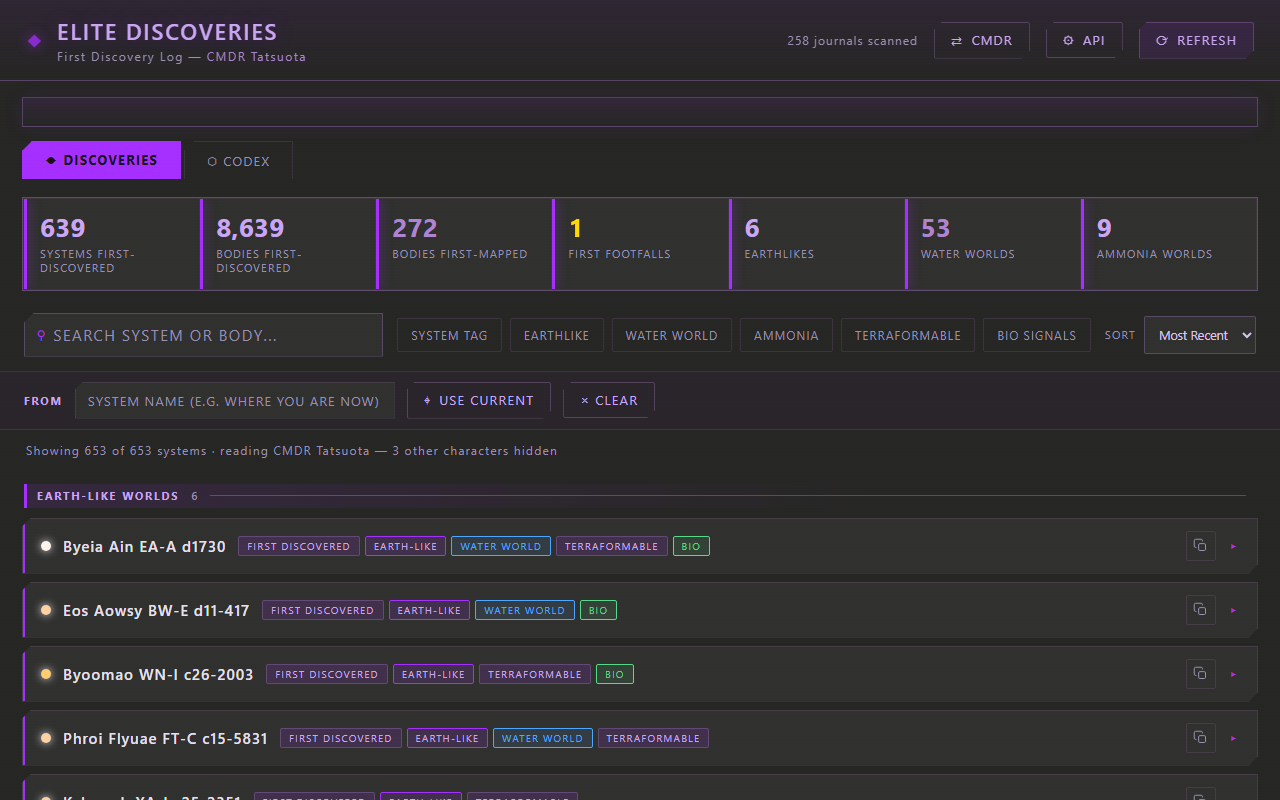
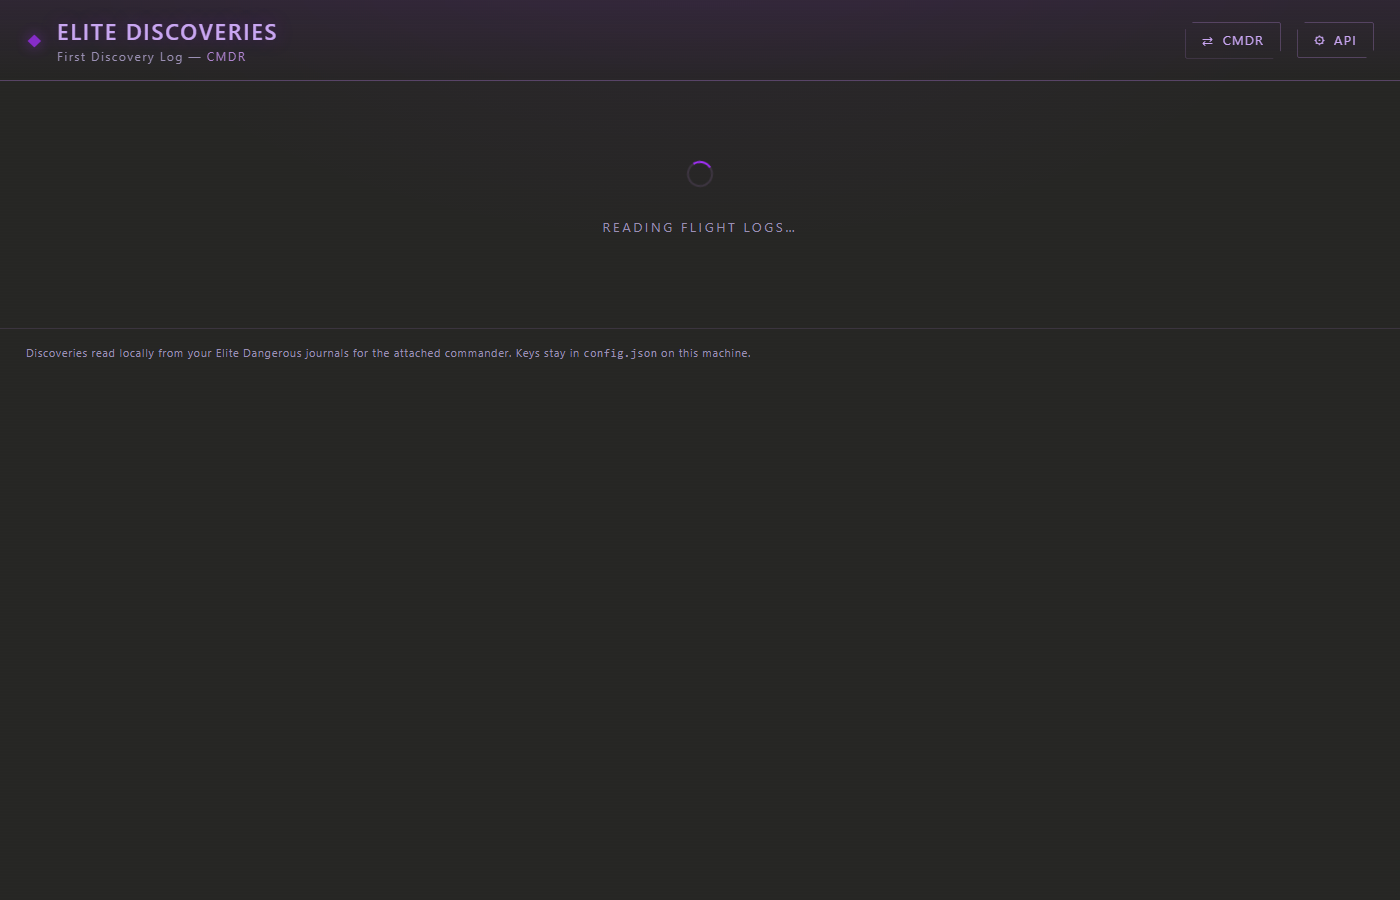
Update portfolio

diff --git a/index.html b/index.html
@@ -66,40 +66,42 @@
   <!-- ============ Elite Discoveries ============ -->
   <article class="project">
     <div class="shot">
-      <div class="shot-chrome"><span></span><span></span><span></span><em>Elite Discoveries — localhost:8765</em></div>
-      <img src="images/elite-discoveries.png" alt="Elite Discoveries app showing a stats strip and categorized list of first-discovered star systems" loading="lazy">
+      <div class="shot-chrome"><span></span><span></span><span></span><em>Elite Discoveries</em></div>
+      <img src="images/elite-discoveries.png" alt="Elite Discoveries app showing categorized lists of star systems and codex entries with colour-coded headers" loading="lazy">
       <div class="shot-links">
         <span class="shot-links-label">Get the app:</span>
-        <a href="https://tatsuota.github.io/portfolio/downloads/Elite-Discoveries.exe">⬇ Windows app <small>.exe · 8 MB</small></a>
+        <a href="https://tatsuota.github.io/portfolio/downloads/Elite-Discoveries.exe">⬇ Windows app <small>.exe · 14 MB</small></a>
       </div>
     </div>
     <div class="info">
       <div class="meta">
-        <span class="type">Desktop / Local Web App</span>
+        <span class="type">Windows Native App</span>
         <span class="ai-badge">Built with Claude Code</span>
       </div>
       <h3>Elite Discoveries</h3>
-      <p class="lede">A first-discovery tracker for <em>Elite Dangerous</em> that turns the game's raw journal logs into a personal exploration record.</p>
+      <p class="lede">A first-discovery tracker for <em>Elite Dangerous</em> that reads a player's journals per-commander and organizes every find into searchable categories.</p>
       <p>
         Elite Dangerous writes everything a player does to local journal files, but the
         game itself has no screen where you can review which star systems you were the
-        first commander to find. This app fills that gap: it reads the journal folder
-        directly, follows which commander was logged in at the time of every scan, and
-        applies the game's own <code>WasDiscovered</code> / <code>WasMapped</code> /
-        <code>WasFootfalled</code> flags — so its results match the "Discovered by"
-        tags shown in-game. No login, no API key, and nothing leaves the machine.
+        first to find. This app fills that gap: on launch it presents a list of commanders
+        found in your journals; pick one and it reads every scan for that character,
+        applies the game's own <code>WasDiscovered</code> / <code>WasMapped</code> flags
+        to match in-game "Discovered by" tags, and organizes findings into categories with
+        colour-coded headers. It runs as a true native window via Edge WebView2, completely
+        offline — no login, no API key, and nothing ever leaves the machine.
       </p>
       <ul class="features">
-        <li>Parses 250+ journal files, keeps the earliest scan of each body, and skips scans made by other characters sharing the same save folder</li>
-        <li>Groups finds into the game's own categories — Earth-like worlds, water worlds, ammonia worlds, anomalies — with search, filters, sorting, and one-click name copy for the in-game galaxy map</li>
-        <li>"From here" mode reads your current location from the journals and re-sorts every discovery by light-year distance, banded nearest-first</li>
-        <li>Every planet gets a wireframe portrait drawn from its actual stats, alongside atmosphere, gravity, temperature, rings, bio/geo signals, and terraformable/landable badges</li>
-        <li>A Codex tab rebuilds your biological, geological, and astronomical finds from journal <code>CodexEntry</code> events, flagging first-logged entries</li>
-        <li>Optional commander profile card via Inara or EDSM keys, plus a working OAuth2 + PKCE login flow for Frontier's Companion API — keys stay server-side, never sent to the browser</li>
-        <li>Builds to a single self-contained <code>.exe</code> that opens in its own window, with installer and desktop-shortcut scripts</li>
+        <li>Commander picker on launch lets you read one character at a time; parses 250+ journal files to build that character's discovery record</li>
+        <li>Discoveries tab organizes finds into colour-coded category groups — Earth-Like Worlds (blue), Water Worlds (blue), Ammonia Worlds (green), Water+Ammonia (cyan), Anomalies (pink) — each with region sub-grouping</li>
+        <li>Single-column bars show system name, feature labels, and a one-click copy button to paste into the in-game galaxy map</li>
+        <li>Nearest-first mode: enter your current in-game system (or any previously-visited location) and re-sorts all discoveries by light-year distance in bands</li>
+        <li>A Codex tab rebuilds biological, geological, and astronomical finds from journal <code>CodexEntry</code> events, grouped by category and sub-category with a "first logged" flag</li>
+        <li>Every star system includes a holographic wireframe body portrait drawn from its actual stats, with atmosphere, gravity, temperature, rings, and bio/geo signal indicators</li>
+        <li>ED-style panels on a Claude-grey background; optional Inara or EDSM profile card (never required)</li>
+        <li>Builds to a single self-contained <code>.exe</code> with installer and desktop-shortcut scripts</li>
       </ul>
       <div class="tags">
-        <span>Python</span><span>JavaScript</span><span>HTML / CSS</span><span>HTTP Server</span><span>OAuth2</span><span>PyInstaller</span>
+        <span>Python</span><span>JavaScript</span><span>HTML / CSS</span><span>WebView2</span><span>PyInstaller</span>
       </div>
     </div>
   </article>